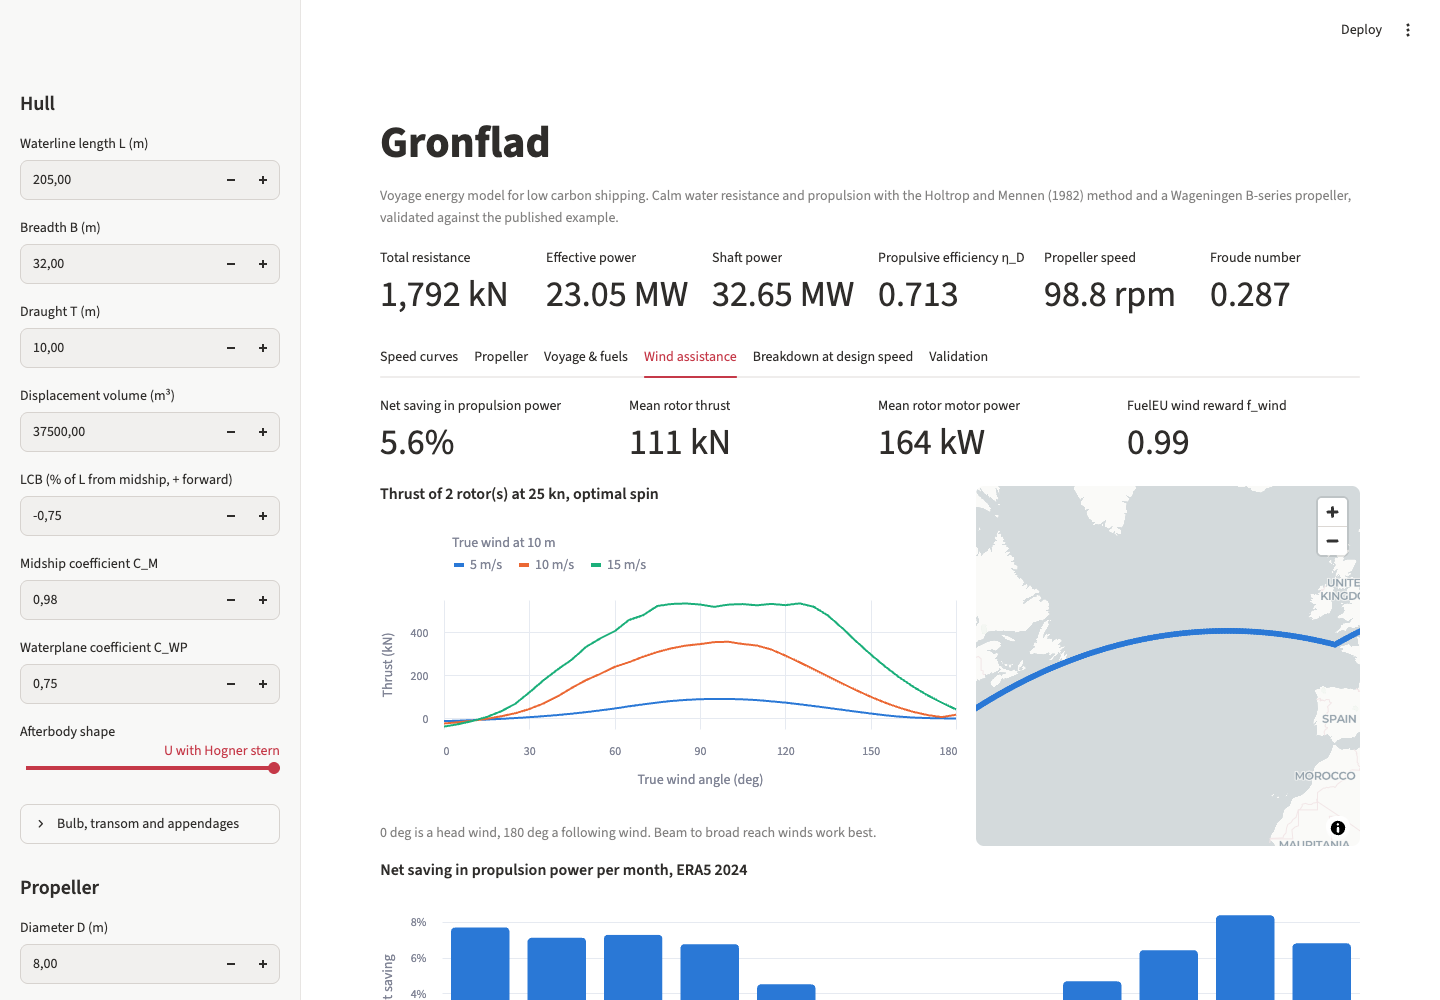
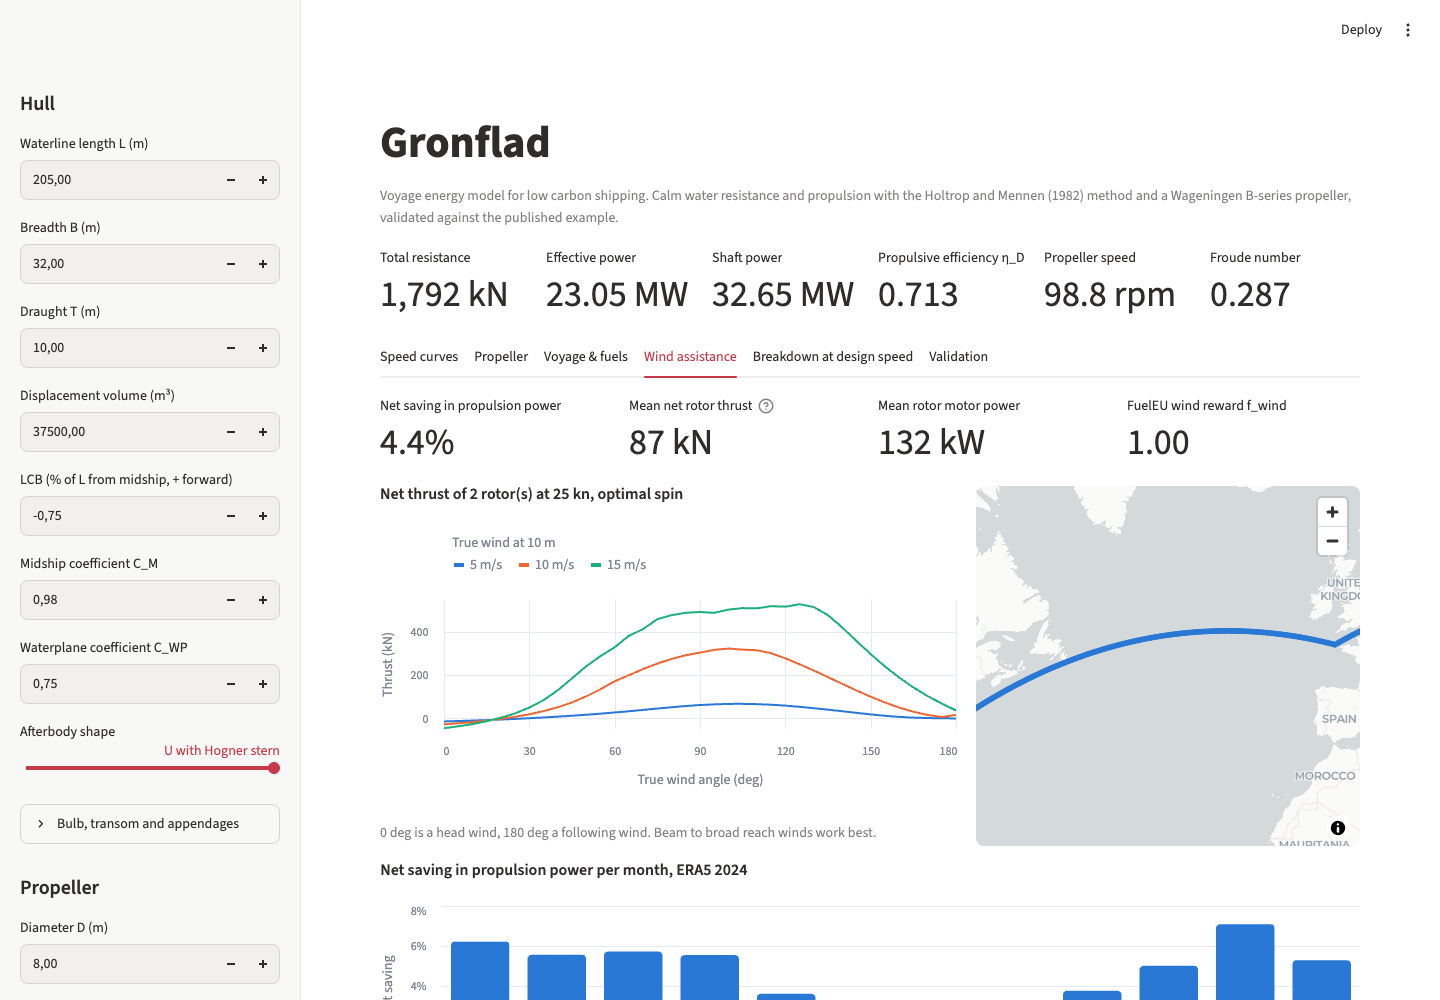
Deduct hull drift resistance from rotor thrust
The rotor side force is balanced by the hull at a small drift angle, using
the low aspect ratio wing model of Tillig and Ringsberg (2020), equations
33 and 37. The rotor speed optimisation now maximises thrust net of the
induced resistance, which cuts route savings by about a fifth.

diff --git a/src/gronflad/wind_assist.py b/src/gronflad/wind_assist.py
@@ -1,7 +1,8 @@
 """Power saving of Flettner rotors along a route, over a year of real wind.
 
 For each 6 hour ERA5 sample and each leg of the route, the rotors run at the
-rotational speed that maximises the net saving. The saving in shaft power is
+rotational speed that maximises the net saving. The hull resistance caused by
+drifting against the rotor side force is deducted from the thrust. The saving in shaft power is
 linearised around the calm water operating point: a rotor thrust T replaces
 T * V / (eta_D * eta_S) of shaft power. `exact_saving` checks this against a
 full recomputation of the propulsion chain.
@@ -10,6 +11,7 @@ full recomputation of the propulsion chain.
 from bisect import bisect_right
 from dataclasses import dataclass, replace
 
+from .drift import induced_resistance
 from .holtrop_mennen import resistance
 from .hull import Hull
 from .propulsion import Propeller, propulsion
@@ -26,7 +28,7 @@ TWA_GRID = [float(a) for a in range(0, 181, 5)]  # degrees
 class RotorTable:
     """Optimal rotor thrust and power on a grid of true wind speed and angle."""
 
-    thrust: list[list[float]]  # [tws][twa], N
+    thrust: list[list[float]]  # [tws][twa], rotor thrust minus drift resistance, N
     power: list[list[float]]  # [tws][twa], W
 
     def lookup(self, tws: float, twa: float) -> tuple[float, float]:
@@ -47,13 +49,17 @@ class RotorTable:
         return interp(self.thrust), interp(self.power)
 
 
-def rotor_table(rotor: FlettnerRotor, ship_speed: float, shaft_power_per_newton: float) -> RotorTable:
+def rotor_table(
+    rotor: FlettnerRotor, ship_speed: float, shaft_power_per_newton: float, hull: Hull | None = None
+) -> RotorTable:
+    """Optimal rotor states on the wind grid. With `hull`, the drift resistance is accounted for."""
+    drag = (lambda side: induced_resistance(hull, ship_speed, side)) if hull is not None else None
     states = [
-        [best_rotor_state(rotor, tws, twa, ship_speed, shaft_power_per_newton) for twa in TWA_GRID]
+        [best_rotor_state(rotor, tws, twa, ship_speed, shaft_power_per_newton, induced_drag=drag) for twa in TWA_GRID]
         for tws in TWS_GRID
     ]
     return RotorTable(
-        thrust=[[s.thrust for s in row] for row in states],
+        thrust=[[s.net_thrust for s in row] for row in states],
         power=[[s.power for s in row] for row in states],
     )
 
@@ -61,7 +67,7 @@ def rotor_table(rotor: FlettnerRotor, ship_speed: float, shaft_power_per_newton:
 @dataclass(frozen=True)
 class WindAssistResult:
     P_S: float  # calm water shaft power without rotors, W
-    mean_thrust: float  # N, all rotors
+    mean_thrust: float  # N, all rotors, net of drift resistance
     shaft_saving: float  # mean gross shaft power saved, W
     rotor_power: float  # mean electric power to spin the rotors, W
     electric_efficiency: float
@@ -97,12 +103,16 @@ def route_saving(
     reverse: bool = False,
     eta_O: float | None = None,
     electric_efficiency: float = 0.95,
+    drift: bool = True,
 ) -> WindAssistResult:
-    """Average rotor saving over every wind sample, weighted by leg length."""
+    """Average rotor saving over every wind sample, weighted by leg length.
+
+    With `drift`, the hull resistance caused by balancing the rotor side force is deducted.
+    """
     res = resistance(hull, speed_kn * KNOT)
     p = propulsion(hull, prop, res, eta_O=eta_O)
     k = res.V / (p.eta_D * p.eta_S)
-    table = rotor_table(rotor, res.V, k)
+    table = rotor_table(rotor, res.V, k, hull if drift else None)
 
     legs = list(reversed(wind.legs)) if reverse else wind.legs
     speeds = list(reversed(wind.speed)) if reverse else wind.speed

diff --git a/src/gronflad/rotor.py b/src/gronflad/rotor.py
@@ -18,10 +18,11 @@ Rotor Sail (brochure, 2025): 0 to 225 rpm and 270 kN maximum continuous thrust.
 Simplifications, stated so they can be checked:
 - The wind profile over the sea follows the Hellmann law with alpha = 0.27.
 - Interaction between rotors, and between rotors and superstructure, is ignored.
-- Drift and rudder resistance caused by the side force are ignored.
+- Drift resistance from the side force is handled in `drift.py`, rudder resistance is ignored.
 """
 
-from dataclasses import dataclass
+from collections.abc import Callable
+from dataclasses import dataclass, replace
 from math import atan2, cos, degrees, hypot, pi, radians, sin
 
 RHO_AIR = 1.225  # kg/m3
@@ -82,6 +83,11 @@ class RotorState:
     thrust: float  # N, all rotors, positive forward
     side_force: float  # N, all rotors
     power: float  # electric power to spin all rotors, W
+    induced_drag: float = 0.0  # hull resistance added by drifting against the side force, N
+
+    @property
+    def net_thrust(self) -> float:
+        return self.thrust - self.induced_drag
 
 
 def rotor_state(rotor: FlettnerRotor, tws10: float, twa_deg: float, ship_speed: float, omega: float) -> RotorState:
@@ -120,12 +126,14 @@ def best_rotor_state(
     shaft_power_per_newton: float,
     electric_efficiency: float = 0.95,
     steps: int = 41,
+    induced_drag: Callable[[float], float] | None = None,
 ) -> RotorState:
     """Rotational speed that maximises the net saving in fuel power.
 
     `shaft_power_per_newton` converts rotor thrust into saved shaft power (V / eta_D).
     The rotor motor power comes from the same engines through a generator and drive
-    of efficiency `electric_efficiency`.
+    of efficiency `electric_efficiency`. `induced_drag` maps the side force (N) to the
+    hull resistance it causes, see `drift.induced_resistance`.
     """
     mid = rotor.base_height + rotor.H / 2
     aws_mid, _ = apparent_wind(wind_at_height(tws10, mid), twa_deg, ship_speed)
@@ -141,11 +149,15 @@ def best_rotor_state(
         state = rotor_state(rotor, tws10, twa_deg, ship_speed, omega=omega)
         if state.thrust > rotor.max_thrust * rotor.count:
             break
-        gain = state.thrust * shaft_power_per_newton - state.power / electric_efficiency
+        if induced_drag is not None:
+            state = replace(state, induced_drag=induced_drag(state.side_force))
+        gain = state.net_thrust * shaft_power_per_newton - state.power / electric_efficiency
         if gain > best_gain:
             best, best_gain = state, gain
     if best is None:  # even the slowest spin breaks a limit, so the rotor stays idle
         best = rotor_state(rotor, tws10, twa_deg, ship_speed, omega=0.0)
+        if induced_drag is not None:
+            best = replace(best, induced_drag=induced_drag(best.side_force))
     return best
 
 

diff --git a/src/gronflad/drift.py b/src/gronflad/drift.py
@@ -1,0 +1,61 @@
+"""Drift angle and induced resistance of a hull balancing a side force.
+
+Reference
+---------
+Tillig, F. and Ringsberg, J.W. (2020). Design, operation and analysis of
+    wind-assisted cargo ships. Ocean Engineering, 211, 107603.
+    Section 3.6, equations (21), (22), (33), (34) to (37).
+
+The hull is treated as a low aspect ratio wing (AR = T / L) with reference
+area L * T. Lift, equation (33):
+    c_L = 0.8 * 0.5 * pi * AR * sin(beta) + 0.6541 * sin|beta| * sin(beta) * cos(beta)
+Induced drag, equation (37), with the first term built on the potential part
+c_L1 of the lift as derived in equations (34) to (36):
+    c_Di = 0.66 * c_L1 * |beta|**0.6 + 0.6541 * sin(|beta|)**3
+
+Simplification: the whole side force is taken by the hull. The rudder load and
+its resistance, which depend on the yaw moment and so on where the rotors
+stand, are not modelled.
+"""
+
+from math import pi, radians, sin, cos
+
+from .hull import Hull
+from .water import SEA_WATER_15C, Water
+
+K_CROSSFLOW = 0.6541
+BETA_MAX = radians(20)  # circulatory lift holds well beyond this, see section 3.6.1
+
+
+def c_lift_potential(beta: float, AR: float) -> float:
+    return 0.8 * 0.5 * pi * AR * sin(beta)
+
+
+def c_lift(beta: float, AR: float) -> float:
+    return c_lift_potential(beta, AR) + K_CROSSFLOW * sin(abs(beta)) * sin(beta) * cos(beta)
+
+
+def c_induced_drag(beta: float, AR: float) -> float:
+    return 0.66 * abs(c_lift_potential(beta, AR)) * abs(beta) ** 0.6 + K_CROSSFLOW * sin(abs(beta)) ** 3
+
+
+def drift_angle(hull: Hull, V: float, side_force: float, water: Water = SEA_WATER_15C) -> float:
+    """Drift angle (rad) at which the hull lift balances `side_force` (N). Capped at BETA_MAX."""
+    if V <= 0 or side_force == 0:
+        return 0.0
+    q_area = 0.5 * water.rho * V**2 * hull.L * hull.T
+    target = abs(side_force) / q_area
+    AR = hull.T / hull.L
+    if c_lift(BETA_MAX, AR) <= target:
+        return BETA_MAX
+    lo, hi = 0.0, BETA_MAX
+    for _ in range(50):
+        mid = 0.5 * (lo + hi)
+        lo, hi = (mid, hi) if c_lift(mid, AR) < target else (lo, mid)
+    return 0.5 * (lo + hi)
+
+
+def induced_resistance(hull: Hull, V: float, side_force: float, water: Water = SEA_WATER_15C) -> float:
+    """Added resistance (N) from sailing at the drift angle that balances `side_force`."""
+    beta = drift_angle(hull, V, side_force, water)
+    return 0.5 * water.rho * V**2 * hull.L * hull.T * c_induced_drag(beta, hull.T / hull.L)

diff --git a/app/streamlit_app.py b/app/streamlit_app.py
@@ -126,7 +126,7 @@ def cached_route_saving(hull, prop, rotor, slug, speed_kn, reverse, eta_O):
 def cached_rotor_table(hull, prop, rotor, speed_kn, eta_O):
     with warnings.catch_warnings():
         warnings.simplefilter("ignore", ValidityWarning)
-        return rotor_table(rotor, speed_kn * KNOT, shaft_power_per_newton(hull, prop, speed_kn, eta_O))
+        return rotor_table(rotor, speed_kn * KNOT, shaft_power_per_newton(hull, prop, speed_kn, eta_O), hull)
 
 
 rotor = FlettnerRotor(D=rotor_D, H=rotor_H, base_height=rotor_base, count=n_rotors)
@@ -321,7 +321,8 @@ with tab_wind:
     else:
         c = st.columns(4)
         c[0].metric("Net saving in propulsion power", f"{assist.net_fraction:.1%}")
-        c[1].metric("Mean rotor thrust", f"{assist.mean_thrust / 1e3:,.0f} kN")
+        c[1].metric("Mean net rotor thrust", f"{assist.mean_thrust / 1e3:,.0f} kN",
+                    help="Rotor thrust minus the hull drift resistance caused by the side force.")
         c[2].metric("Mean rotor motor power", f"{assist.rotor_power / 1e3:,.0f} kW")
         c[3].metric("FuelEU wind reward f_wind", f"{wind_reward(assist.wind_power_ratio):.2f}")
 
@@ -345,7 +346,7 @@ with tab_wind:
                                     legend=alt.Legend(orient="top", title="True wind at 10 m")),
                     tooltip=["Wind", "True wind angle (deg):Q", alt.Tooltip("Thrust (kN):Q", format=",.0f")],
                 )
-                .properties(title=f"Thrust of {n_rotors} rotor(s) at {v_design:g} kn, optimal spin", height=320)
+                .properties(title=f"Net thrust of {n_rotors} rotor(s) at {v_design:g} kn, optimal spin", height=320)
             )
             st.altair_chart(polar, width="stretch")
             st.caption("0 deg is a head wind, 180 deg a following wind. Beam to broad reach winds work best.")
@@ -367,7 +368,8 @@ with tab_wind:
         st.caption(
             "Rotor coefficients from Tillig and Ringsberg (2020), fitted to full-scale measurements. "
             "Every 6 hour ERA5 sample on every 200 nm leg is used, with the rotor speed optimised each time. "
-            "Rotor interaction, drift and rudder resistance are not modelled, so these savings are an upper bound."
+            "The hull drift resistance from the side force is deducted (Tillig and Ringsberg, 2020). "
+            "Rotor interaction and rudder resistance are not modelled, so these savings remain an upper bound."
         )
 
 with tab_details:

diff --git a/tests/test_drift.py b/tests/test_drift.py
@@ -1,0 +1,39 @@
+"""Hull drift model, Tillig and Ringsberg (2020), equations (33) and (37)."""
+
+from math import pi, radians
+
+import pytest
+
+from gronflad.drift import c_induced_drag, c_lift, drift_angle, induced_resistance
+from gronflad.ships import HM1982_HULL as HULL
+
+
+def test_lift_equation_33():
+    AR, beta = 0.05, radians(5)
+    from math import cos, sin
+    expected = 0.8 * 0.5 * pi * AR * sin(beta) + 0.6541 * sin(beta) * sin(beta) * cos(beta)
+    assert c_lift(beta, AR) == pytest.approx(expected)
+
+
+def test_lift_is_odd_and_drag_is_even():
+    assert c_lift(-0.1, 0.05) == pytest.approx(-c_lift(0.1, 0.05))
+    assert c_induced_drag(-0.1, 0.05) == pytest.approx(c_induced_drag(0.1, 0.05))
+
+
+def test_no_side_force_no_drift():
+    assert drift_angle(HULL, 6.0, 0.0) == 0.0
+    assert induced_resistance(HULL, 6.0, 0.0) == 0.0
+
+
+def test_drift_balances_side_force():
+    V, side = 6.0, 300e3
+    beta = drift_angle(HULL, V, side)
+    lift = 0.5 * 1025 * V**2 * HULL.L * HULL.T * c_lift(beta, HULL.T / HULL.L)
+    assert lift == pytest.approx(side, rel=1e-6)
+    assert 0 < beta < radians(10)
+
+
+def test_induced_resistance_grows_with_side_force_and_falls_with_speed():
+    small, large = induced_resistance(HULL, 6.0, 100e3), induced_resistance(HULL, 6.0, 300e3)
+    assert large > small > 0
+    assert induced_resistance(HULL, 12.0, 300e3) < large

diff --git a/tests/test_route.py b/tests/test_route.py
@@ -54,3 +54,12 @@ def test_route_saving_is_bounded():
     two = route_saving(HM1982_HULL, HM1982_PROPELLER, FlettnerRotor(count=2), wind, 16)
     assert 0 < two.net_fraction < 0.5
     assert len(two.monthly_net_fraction) == 12
+
+
+@pytest.mark.filterwarnings("ignore")
+def test_drift_reduces_the_saving():
+    wind = load_wind(ROUTES["fos-port-said"])
+    rotor = FlettnerRotor(count=2)
+    without = route_saving(HM1982_HULL, HM1982_PROPELLER, rotor, wind, 14, drift=False)
+    with_drift = route_saving(HM1982_HULL, HM1982_PROPELLER, rotor, wind, 14)
+    assert 0 < with_drift.net_fraction < without.net_fraction

diff --git a/examples/rotor_savings.py b/examples/rotor_savings.py
@@ -59,7 +59,7 @@ ax.tick_params(colors=TEXT_SECONDARY, length=0)
 ax.legend(frameon=False, fontsize=9, labelcolor=TEXT_SECONDARY)
 fig.text(
     0.01, 0.01,
-    "Upper bound: rotor interaction, drift and rudder resistance not modelled. Rotor model: Tillig and Ringsberg (2020).",
+    "Hull drift resistance included. Upper bound: rotor interaction and rudder resistance not modelled. Model: Tillig and Ringsberg (2020).",
     color=TEXT_SECONDARY, fontsize=7.5,
 )
 out = Path(__file__).resolve().parents[1] / "docs" / "img" / "rotor_savings.png"

diff --git a/README.md b/README.md
@@ -48,11 +48,11 @@ Storage volumes including tank systems are indicative values derived from DNV GL
 
 ![Rotor savings](docs/img/rotor_savings.png)
 
-Gronflad sails the ship along a real route with every 6 hour ERA5 wind sample of 2024, on 200 nm legs. At each sample the rotors run at the speed that maximises the net saving, within the manufacturer limits of a 30 x 5 m rotor sail (225 rpm, 270 kN). Lift, drag and motor power come from the coefficients of Tillig and Ringsberg (2020), fitted to full-scale measurements. The saving then flows into the fuel comparison and the FuelEU wind reward factor.
+Gronflad sails the ship along a real route with every 6 hour ERA5 wind sample of 2024, on 200 nm legs. At each sample the rotors run at the speed that maximises the net saving, within the manufacturer limits of a 30 x 5 m rotor sail (225 rpm, 270 kN). Lift, drag and motor power come from the coefficients of Tillig and Ringsberg (2020), fitted to full-scale measurements. The rotor side force makes the hull sail at a small drift angle, and the resulting resistance is deducted using the low aspect ratio wing model of the same paper, which cuts the saving by about a fifth. The saving then flows into the fuel comparison and the FuelEU wind reward factor.
 
 Two lessons stand out. Wind assistance pays off far more at slow steaming, because rotor thrust stays roughly constant while propulsion power falls with the cube of speed. And the route matters as much as the hardware: North Atlantic westerlies give about twice the saving of the Mediterranean.
 
-These figures are an upper bound. Rotor interaction, superstructure effects, and the drift and rudder resistance caused by the side force are not modelled yet.
+These figures remain an upper bound. Rotor interaction, superstructure effects and rudder resistance are not modelled yet.
 
 ## Interactive app
 
@@ -104,7 +104,8 @@ print(f"Shaft power: {prop.P_S / 1e3:.0f} kW at {prop.n * 60:.0f} rpm, P/D = {pr
 - [x] Fuel module: FuelEU Maritime well-to-wake intensity, storage volume, compliance and penalty
 - [x] Route module: great circle legs and ERA5 wind along the route
 - [x] Flettner rotor model (lift, drag and motor power versus spin ratio, optimal rpm, operating limits)
-- [ ] Drift and rudder resistance from the rotor side force
+- [x] Hull drift resistance from the rotor side force
+- [ ] Rudder resistance and yaw balance
 - [ ] More routes, including transpacific and Asia to Europe
 - [x] Interactive web app (Streamlit)
 - [ ] Public online deployment

diff --git a/CLAUDE.md b/CLAUDE.md
@@ -18,4 +18,5 @@ Voyage energy model for low carbon shipping (Python library, `src/gronflad`).
 
 ## Status
 - Done: Holtrop-Mennen 1982 resistance and propulsion factors, Wageningen B-series (K_Q scale correction off by default, as in the paper example), all validated on the paper's 25 kn example. Fuels (FuelEU Annex II factors) and voyage energy. Flettner rotor (Tillig and Ringsberg 2020) with Norsepower limits, routes with ERA5 2024 wind cached in `src/gronflad/data/wind` (refresh with `scripts/fetch_wind.py`).
-- Next: drift and rudder resistance from rotor side force, KCS comparison with published data, more routes, online deployment of the app.
+- Hull drift resistance from rotor side force (`drift.py`, Tillig and Ringsberg eq. 33 and 37).
+- Next: rudder resistance and yaw balance, KCS comparison with published data, more routes, online deployment of the app.
